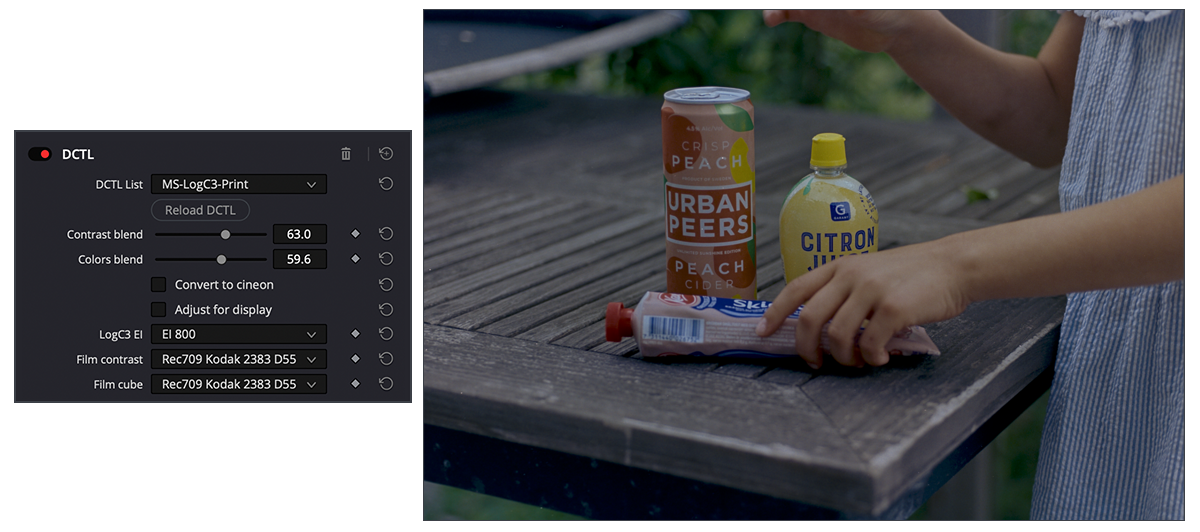
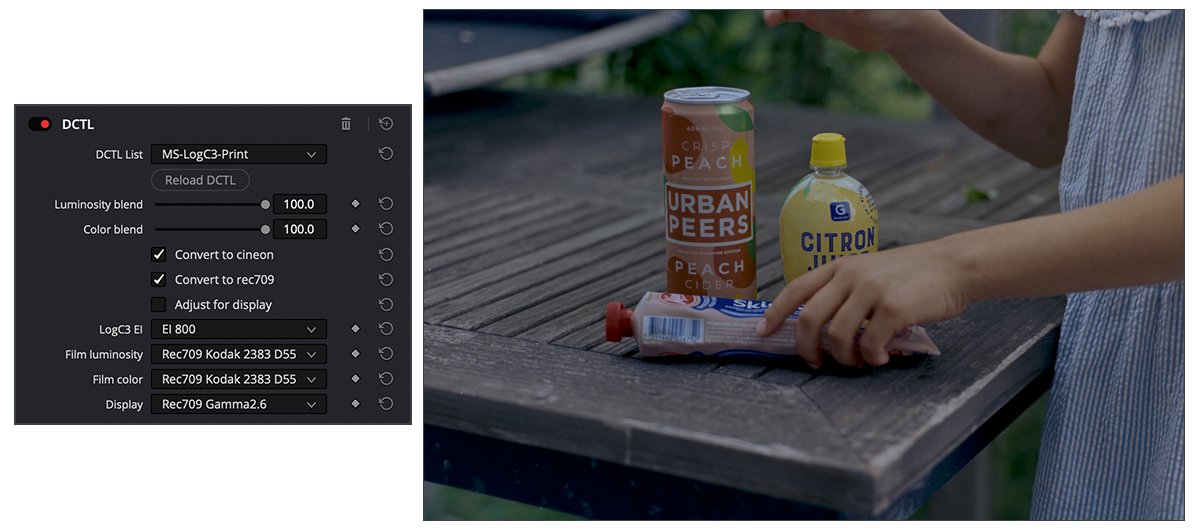
Removed incorrect clamping from xyz_rec709 Updated LogC3 print image Updated README.md

Changed region(s): [[0.0, 0.1805, 0.37, 0.812], [0.3083, 0.3308, 0.3392, 0.3609]]

diff --git a/MS-Rec709.h b/MS-Rec709.h
@@ -66,9 +66,6 @@ __DEVICE__ float3 rec709_lin(float3 rgb, int ei) {
 __DEVICE__ float3 xyz_rec709(float3 rgb) {
     Rec709Colorspace cs = rec709_colorspace();
     float3 rec709 = cs.xyz_rec709(rgb);
-    rec709.x = clamp(rec709.x, 0.0, 1.0);
-    rec709.y = clamp(rec709.y, 0.0, 1.0);
-    rec709.z = clamp(rec709.z, 0.0, 1.0);
     return rec709;
 }
 

diff --git a/README.md b/README.md
@@ -15,10 +15,15 @@ Table of Contents
     - [MS-Cineon-Invert.dctl](#ms-cineon-invertdctl)
       - [Cineon inversion](#cineon-inversion)
       - [ACES scene-linear and calibration curves](#aces-scene-linear-and-calibration-curves)
+    - [MS-Cineon-Exposure.dctl](#ms-cineon-exposuredctl-1)
     - [MS-Cineon-Transform.dctl](#ms-cineon-transformdctl)
+    - [MS-Cineon-Transform.dctl](#ms-cineon-transformdctl-1)
+  - [Gen5 color processing](#gen5-color-processing)
+    - [MS-Gen5-Transform.dctl](#ms-gen5-transformdctl)
   - [LogC3 color processing](#logc3-color-processing)
     - [MS-LogC3-Print.dctl](#ms-logc3-printdctl)
     - [MS-LogC3-Exposure.dctl](#ms-logc3-exposuredctl)
+    - [MS-LogC3-Temperature.dctl](#ms-logc3-temperaturedctl)
     - [MS-LogC3-Transform.dctl](#ms-logc3-transformdctl)
   - [Utility DCTLs](#utility-dctls)
     - [MS-Stripify.dctl](#ms-stripifydctl)
@@ -104,15 +109,16 @@ To account for the variations of film stock and the use of ECN-2 chemicals, deve
 
 ![MS-Cineon-Invert.dctl figure](resources/MS-LogC3-Invert_calibration.png "MS-Cineon-Invert.dctl")
 
-Color calibration curves and macbeth charts at different exposures for adjustments.
-
-**DCTL script**
+Figure: Color calibration curves and macbeth charts at different exposures for adjustments.
 
 - https://github.com/mikaelsundell/dctl/blob/master/MS-Cineon-Invert.dctl
-
-**rawtoaces project**
-
 - https://github.com/AcademySoftwareFoundation/rawtoaces
+
+### MS-Cineon-Exposure.dctl
+
+Cineon exposure from photographic stops, incorporating a zone based false color to aid in achieving correct exposure levels.
+
+- https://github.com/mikaelsundell/dctl/blob/master/MS-Cineon-Exposure.dctl
 
 ### MS-Cineon-Transform.dctl
 
@@ -120,13 +126,27 @@ Cineon conversion to and from linear.
 
 - https://github.com/mikaelsundell/dctl/blob/master/MS-Cineon-Transform.dctl
 
+### MS-Cineon-Transform.dctl
+
+Cineon conversion to and from linear. 
+
+- https://github.com/mikaelsundell/dctl/blob/master/MS-Cineon-Transform.dctl
+
+## Gen5 color processing
+
+### MS-Gen5-Transform.dctl
+
+Gen5 conversion to and from linear. 
+
+- https://github.com/mikaelsundell/dctl/blob/master/MS-Gen5-Transform.dctl
+
 ## LogC3 color processing
 
 ### MS-LogC3-Print.dctl
 
 ![MS-LogC3-Print.dctl figure](resources/MS-LogC3-Print.png "MS-LogC3-Print.dctl")
 
-Made for print emulation, this DCTL applies DaVinci Resolve's built-in film looks to ARRI LogC3 and Cineon footage with adjustable controls for contrast and color strength.
+Made for print emulation, this DCTL applies DaVinci Resolve's built-in film looks to ARRI LogC3 and Cineon footage with adjustable controls for luminosity and color blending.
 
 - https://github.com/mikaelsundell/dctl/blob/master/MS-LogC3-Print.dctl
 
@@ -137,6 +157,12 @@ Made for print emulation, this DCTL applies DaVinci Resolve's built-in film look
 LogC3 exposure from photographic stops, incorporating a zone based false color to aid in achieving correct exposure levels.
 
 - https://github.com/mikaelsundell/dctl/blob/master/MS-LogC3-Exposure.dctl
+
+### MS-LogC3-Temperature.dctl
+
+LogC3 CAT02 color temperature adjustments.
+
+- https://github.com/mikaelsundell/dctl/blob/master/MS-LogC3-Temperature.dctl
 
 ### MS-LogC3-Transform.dctl
 
